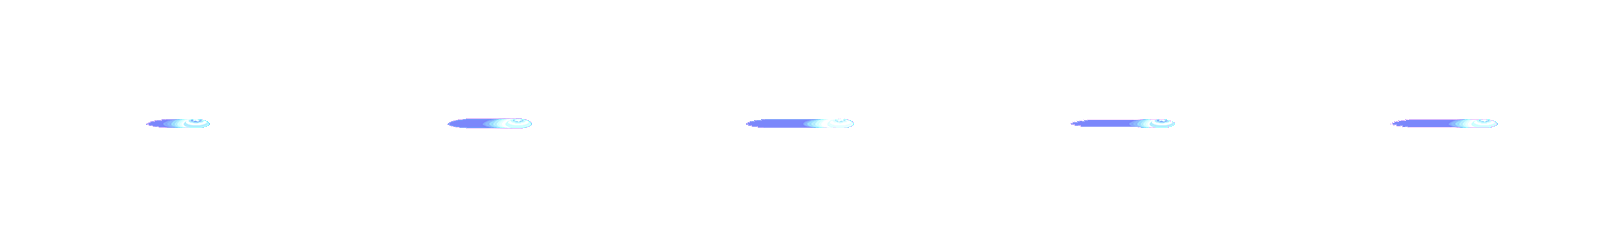
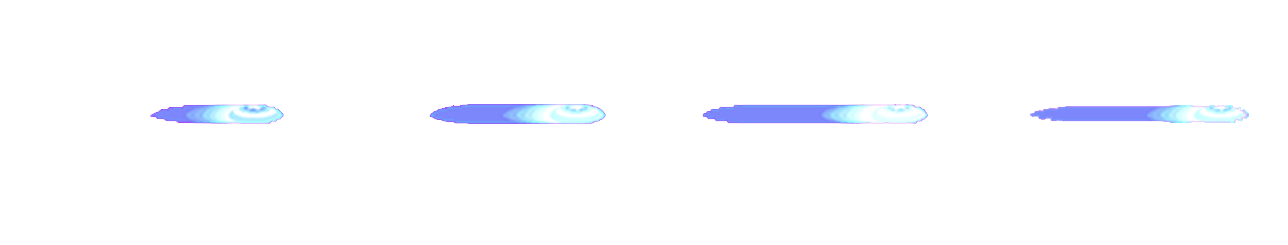
Arreglando proyectiles

diff --git a/Server/Character_server/Character_server.cpp b/Server/Character_server/Character_server.cpp
@@ -35,25 +35,45 @@ vector<int> Character_server::getInfo() {
 
 void Character_server::spriteCoordinates(){
 
-    if (name == "CaptainAmerica" or name == "projectileCA"){ //ESTOS OR DESPUES LOV VOY A SACAR ES POR AHORA
+    if (name == "CaptainAmerica"){
         xPos = objRect.x - 234;
         xPosFlip = objRect.x - 372;
         yPos = objRect.y - 196;
     }
-    if (name == "SpiderMan" or name == "projectileSM"){
+    if (name == "SpiderMan"){
         xPos = objRect.x - 428;
         xPosFlip = objRect.x - 528;
         yPos = objRect.y - 307;
     }
-    if (name == "ChunLi" or name == "projectileCL"){
+    if (name == "ChunLi"){
         xPos = objRect.x - 421;
         xPosFlip = objRect.x - 397;
         yPos = objRect.y - 240;
     }
-    if (name == "Venom" or name == "projectileV"){
+    if (name == "Venom"){
         xPos = objRect.x - 578;
         xPosFlip = objRect.x - 529;
         yPos = objRect.y - 227;
+    }
+    if (name == "projectileCA"){
+        xPos = objRect.x - 234;
+        xPosFlip = objRect.x - 372;
+        yPos = objRect.y - 270;
+    }
+    if (name == "projectileSM"){
+        xPos = objRect.x - 428;
+        xPosFlip = objRect.x - 528;
+        yPos = objRect.y - 370;
+    }
+    if (name == "projectileCL"){
+        xPos = objRect.x - 410;
+        xPosFlip = objRect.x - 397;
+        yPos = objRect.y - 230;
+    }
+    if (name == "projectileV"){
+        xPos = objRect.x - 578;
+        xPosFlip = objRect.x - 529;
+        yPos = objRect.y - 270;
     }
 }
 

diff --git a/model/GameObjects_fight/Character/Character.cpp b/model/GameObjects_fight/Character/Character.cpp
@@ -18,23 +18,43 @@ Character::Character(const char* imagePath, int z_index, SDL_Renderer* rend, Spr
 
     this->name = name;
 
-    if (name == "CaptainAmerica" or name == "projectileCA"){
+    if (name == "CaptainAmerica"){
         auxY = 196;
         auxLeft = 234;
         auxRight = 372;
     }
-    if (name == "SpiderMan" or name == "projectileSM"){
+    if (name == "SpiderMan"){
         auxY = 307;
         auxLeft = 428;
         auxRight = 528;
     }
-    if (name == "ChunLi" or name == "projectileCL"){
+    if (name == "ChunLi"){
         auxY = 240;
         auxLeft = 421;
         auxRight = 397;
     }
-    if (name == "Venom" or name == "projectileV"){
+    if (name == "Venom"){
         auxY = 227;
+        auxLeft = 578;
+        auxRight = 529;
+    }
+    if (name == "projectileCA"){
+        auxY = 270;
+        auxLeft = 234;
+        auxRight = 372;
+    }
+    if (name == "projectileSM"){
+        auxY = 370;
+        auxLeft = 428;
+        auxRight = 528;
+    }
+    if (name == "projectileCL"){
+        auxY = 230;
+        auxLeft = 410;
+        auxRight = 397;
+    }
+    if (name == "projectileV"){
+        auxY = 270;
         auxLeft = 578;
         auxRight = 529;
     }

diff --git a/controllers/Controller/ControllerCharacter/ControllerCharacter.cpp b/controllers/Controller/ControllerCharacter/ControllerCharacter.cpp
@@ -237,7 +237,7 @@ void ControllerCharacter::handleEvent(string event, GameObject_server* enemy, Co
         state = "still";
 
     //LOGICA DE TIRAR PROYECTIL
-    if (direction->isEqual(THROW) and (state == "still" or state == "walk") and !projectile_flying){
+    if (direction->isEqual(THROW) and (state == "still" or state == "walk") and !projectile_flying and !inAir){
 
         movingRight = false;
         movingLeft = false;
@@ -482,6 +482,9 @@ void ControllerCharacter::changePosition(int changeX, int changeY) {
 
     dynamic_cast<Character_server*> (gameObject)->changePosition(changeX, changeY);
 
+    throwing = false;
+    projectile_flying = false;
+
 }
 
 bool ControllerCharacter::isInAir() {
@@ -596,6 +599,8 @@ void ControllerCharacter::resetLife() {
     life = 100;
     defeated = false;
     jump = false;
+    projectile_flying = false;
+    throwing = false;
 }
 
 void ControllerCharacter::resetPosition(bool initialFlip) {

diff --git a/Animations/CaptainAmericaAnimations/CaptainAmericaProjectileAnimation.cpp b/Animations/CaptainAmericaAnimations/CaptainAmericaProjectileAnimation.cpp
@@ -9,21 +9,19 @@
 void CaptainAmericaProjectileAnimation::init() {
 
     startTime = SDL_GetTicks();
-    animationRate = 12;
+    animationRate = 9;
     animationLength = 5;
 
     vector<int> frame0 = {0, 0, 322, 245};
     vector<int> frame1 = {322, 0, 322, 245};
     vector<int> frame2 = {644, 0, 322, 245};
     vector<int> frame3 = {966, 0, 322, 245};
-    vector<int> frame4 = {1288, 0, 322, 245};
 
 
     animation.push_back(frame0);
     animation.push_back(frame1);
     animation.push_back(frame2);
     animation.push_back(frame3);
-    animation.push_back(frame4);
 
 }
 

diff --git a/utils/HitboxManager/HitboxManager.cpp b/utils/HitboxManager/HitboxManager.cpp
@@ -20,7 +20,7 @@ void HitboxManager::move(DirectionVector *direction) {
 
 void HitboxManager::setHitboxes(string newState, bool horizontalFlip, SDL_Rect spriteRect, SDL_Rect spriteRectFlip) {
 
-    if(currentState == newState) return;
+    if(currentState == newState and newState != "flying") return;
     currentState = newState;
     stateIterHitboxes = stateHitBoxes.find(newState);
     vector<SDL_Rect> newHitboxes = stateIterHitboxes->second;
